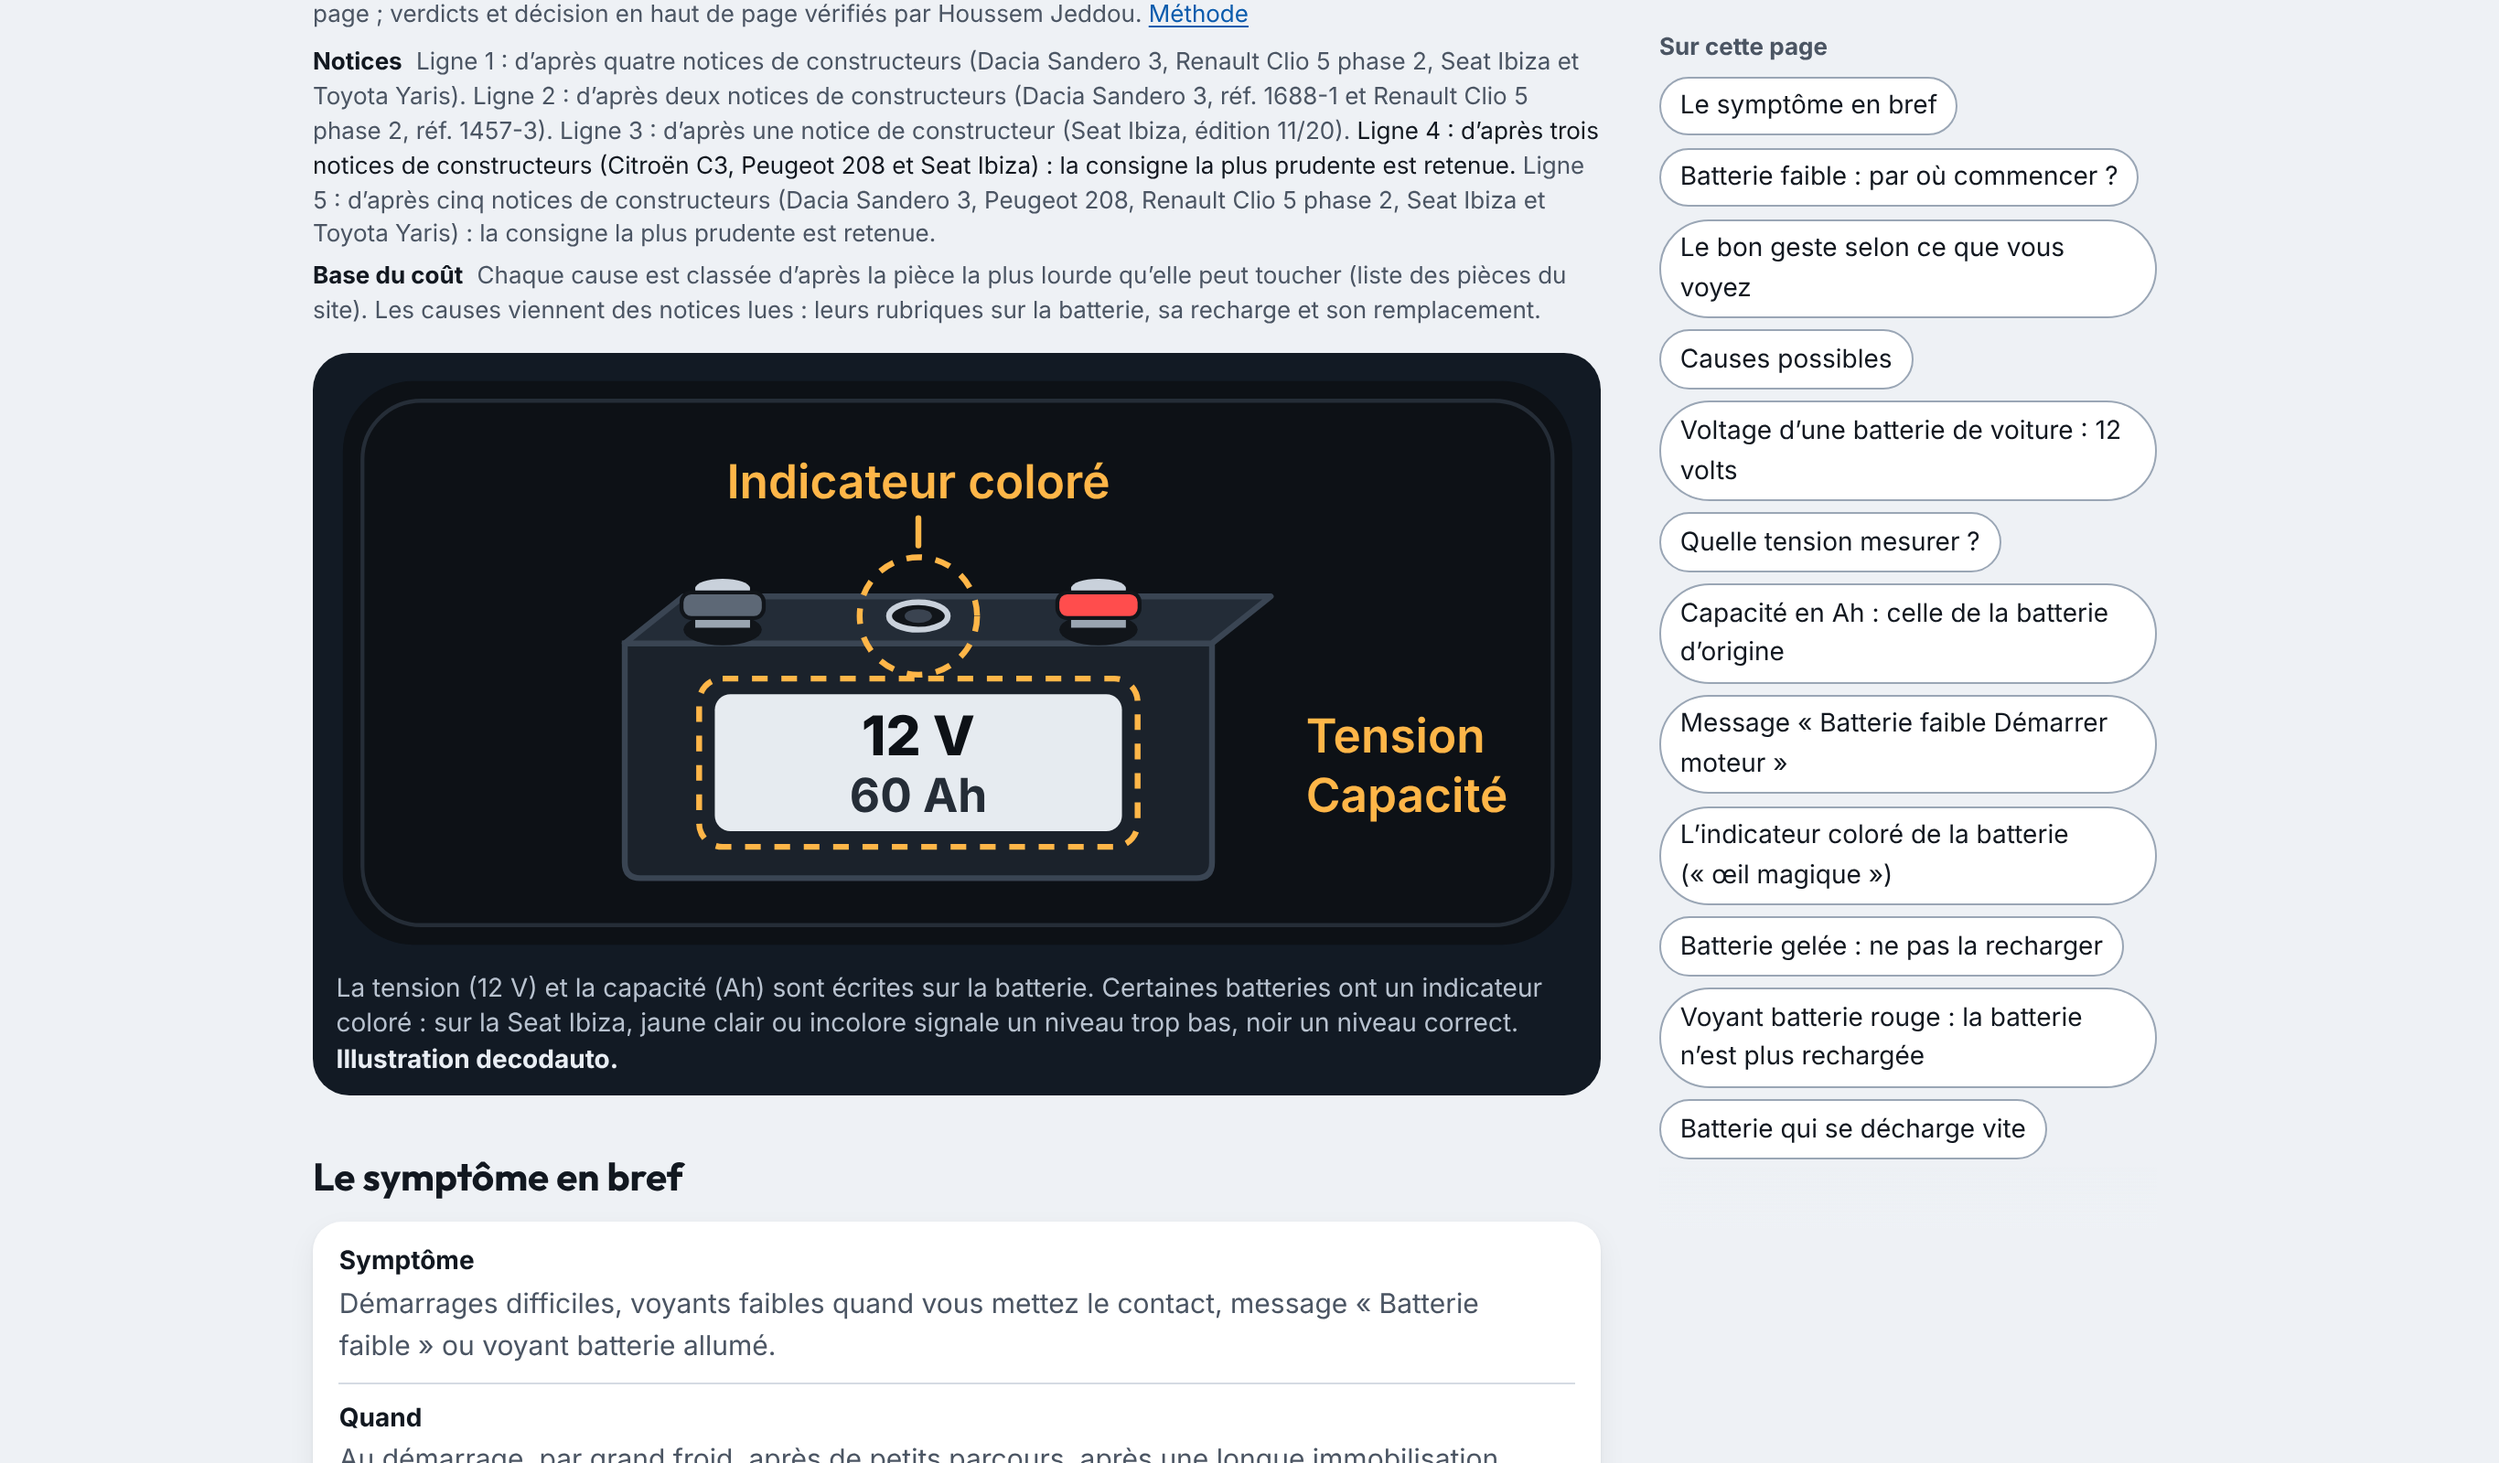
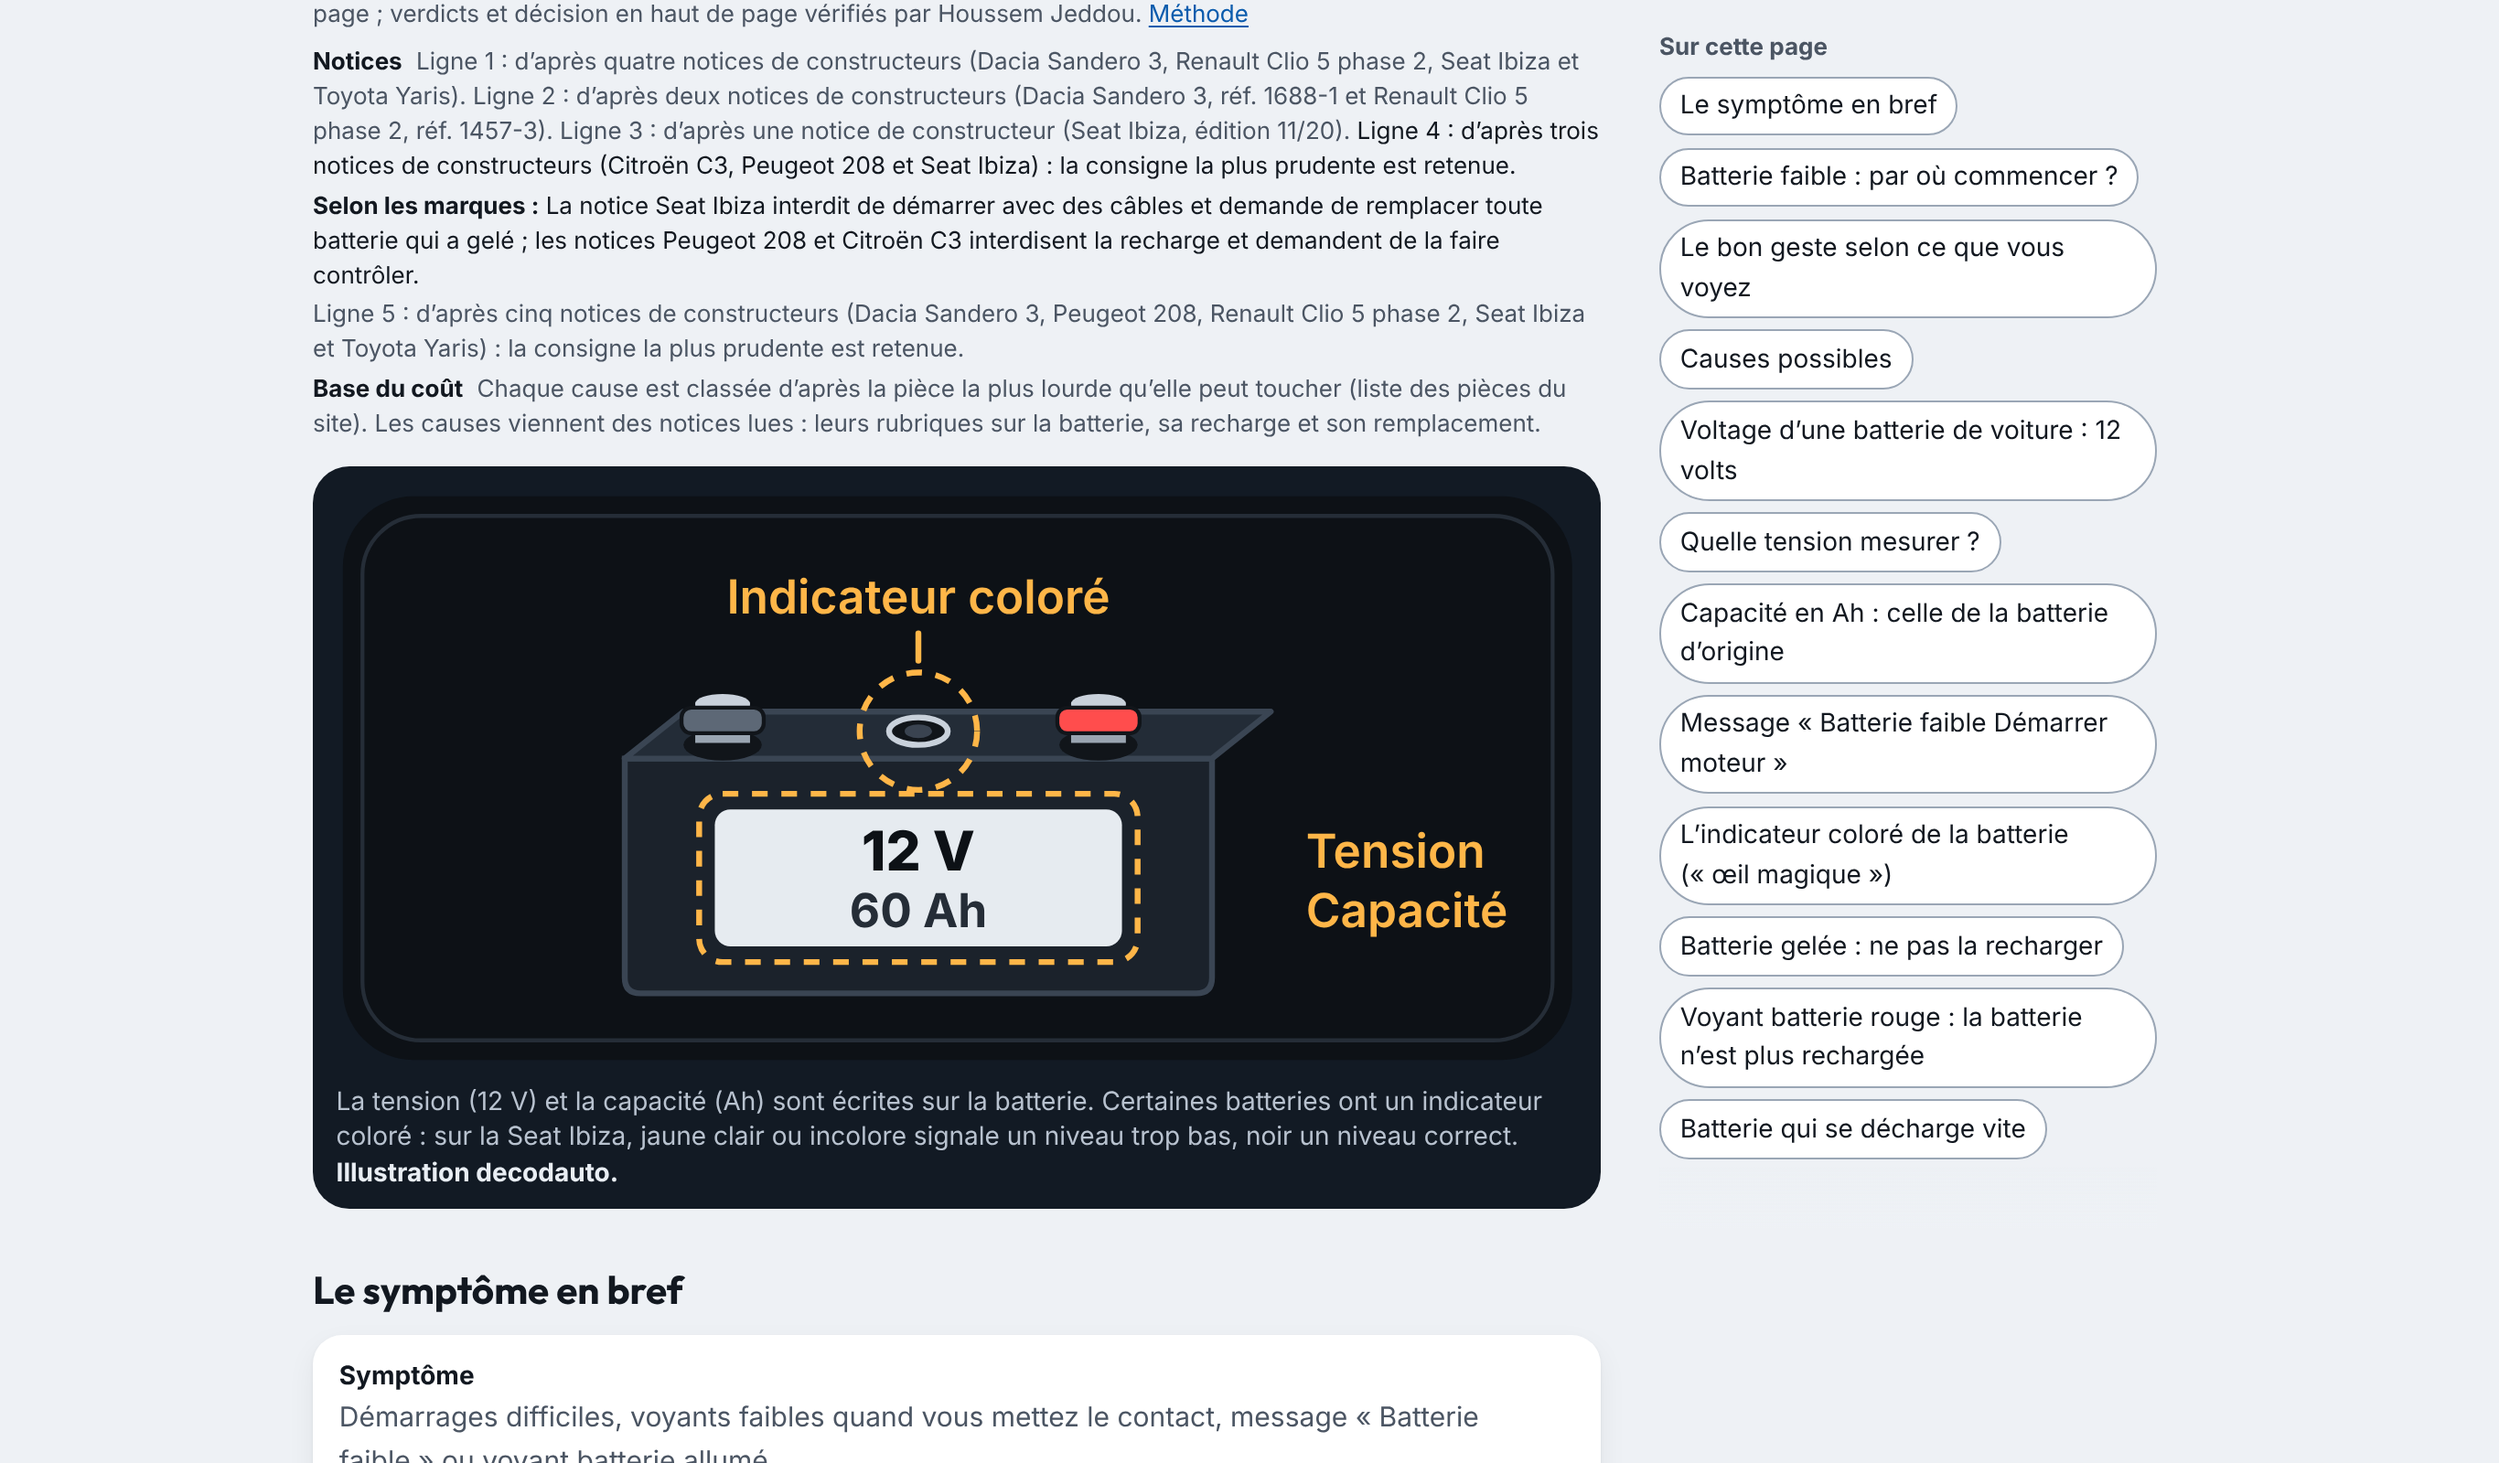
Ligne saisie : captures refaites (écart entre marques sous la phrase ciblée, ancre partagée), README
Claude-Session: https://claude.ai/code/session_01D9NChPBVJTio8astCmYhoa

Changed region(s): [[0.1245, 0.125, 0.6534, 1.0]]

diff --git a/travaux/etape-13/ecart-lignes-saisies/README.md b/travaux/etape-13/ecart-lignes-saisies/README.md
@@ -10,10 +10,21 @@ batterie a gelé… »). Elle est construite en local sur cette branche avec la 
 B2, sans être commitée ici. Contrôle de cette construction : seules les validations absentes (26 × R4-EMPREINTE des lignes
 du lot F2, R4-VALIDATION-ABSENTE de la page) ; plus de FORMAT2-ECART.
 
+Revue indépendante de la pull request (`revue-independante.md`) : sous la phrase « Notices » ciblée, l'écart entre marques
+de la ligne s'affiche en entier (« Selon les marques : … », décision I2) ; quand deux lignes saisies à écart partagent la
+phrase, l'ancre de la seconde est sur son propre écart, avec la même marge et la même couleur (I1).
+
 Fichiers (`capturer.cjs` : Chromium, police du système Inter ; police chargée et police de secours ; échelle 2 ; une
 capture en police de secours identique octet pour octet à celle en police chargée n'est pas gardée) :
 
-- `ligne-saisie-<375|1366>-<chargee|secours>-encadre.png` : la ligne 4 de l'encadré, avec sa ligne d'écart et le lien ;
+- `ligne-saisie-<375|1366>-<chargee|secours>-encadre.png` : la ligne 4 de l'encadré, avant le clic, avec sa ligne d'écart
+  et le lien ;
 - `ligne-saisie-<375|1366>-<chargee|secours>-apres-clic.png` : l'écran après un clic sur « Votre marque ». La phrase
-  « Ligne 4 : d'après trois notices… » est la cible (`:target`), avec 4 rem de marge au-dessus et le texte en couleur
-  pleine (`.provenance-ligne`, `src/styles/charte-b.css`).
+  « Ligne 4 : d'après trois notices… » est la cible, avec 4 rem de marge au-dessus et le texte en couleur pleine ; dessous,
+  « Selon les marques : » et l'écart entre marques de la ligne, en entier ;
+- `ancre-partagee-<375|1366>-<chargee|secours>-<encadre|apres-clic>.png` : la même page avec une ligne d'essai ajoutée en
+  local (ligne 5, mêmes notices que la ligne 4, jamais commitée). Les deux lignes partagent la phrase. Le clic sur
+  « Votre marque » de la ligne 5 mène à son écart (« Ligne 5, selon les marques : … ») : même marge, phrase et écarts du
+  groupe en couleur pleine.
+
+Les captures de la première version (10e73ab, phrase seule) restent dans l'historique de la branche.
